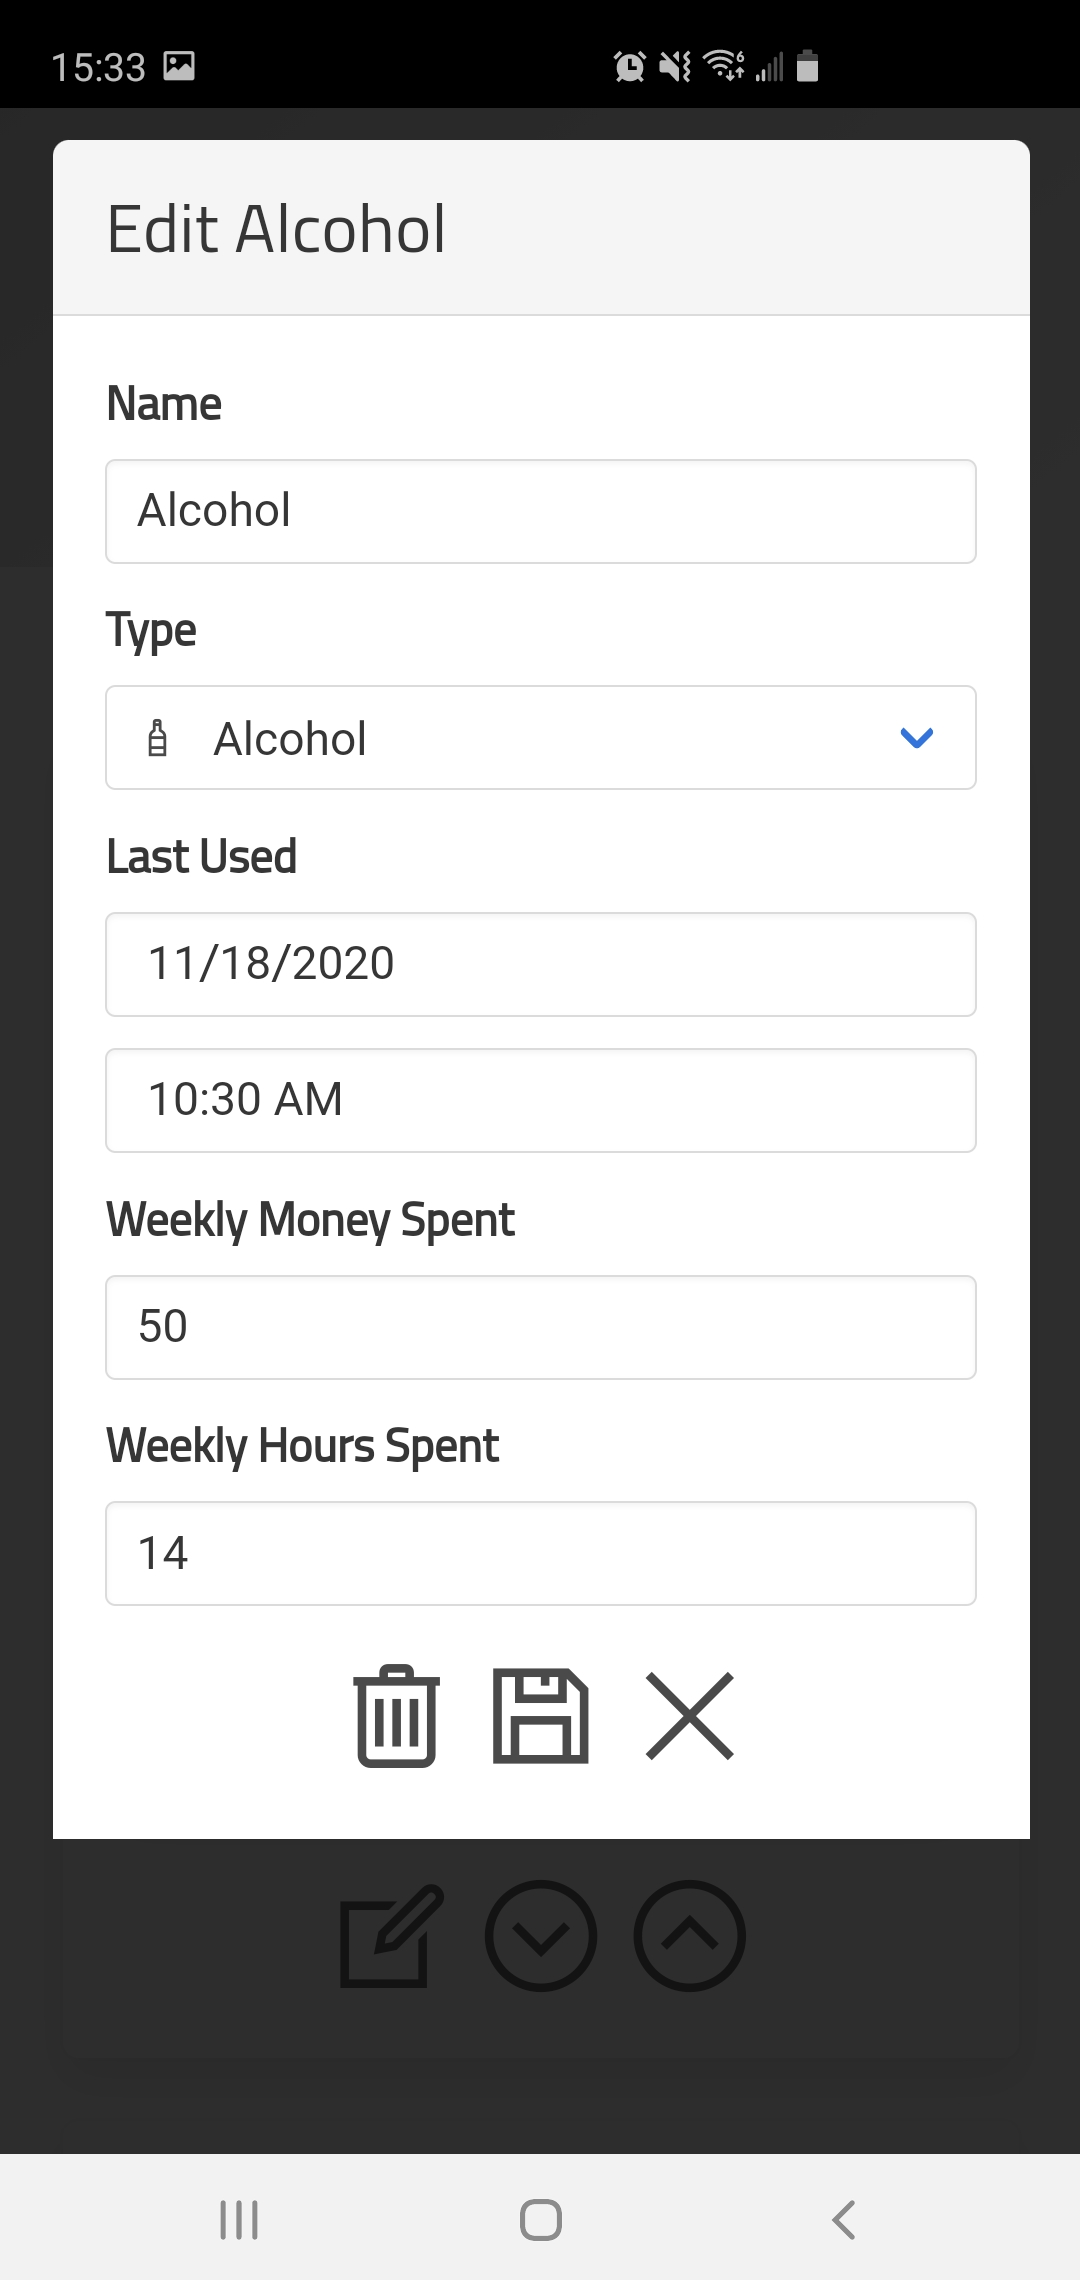
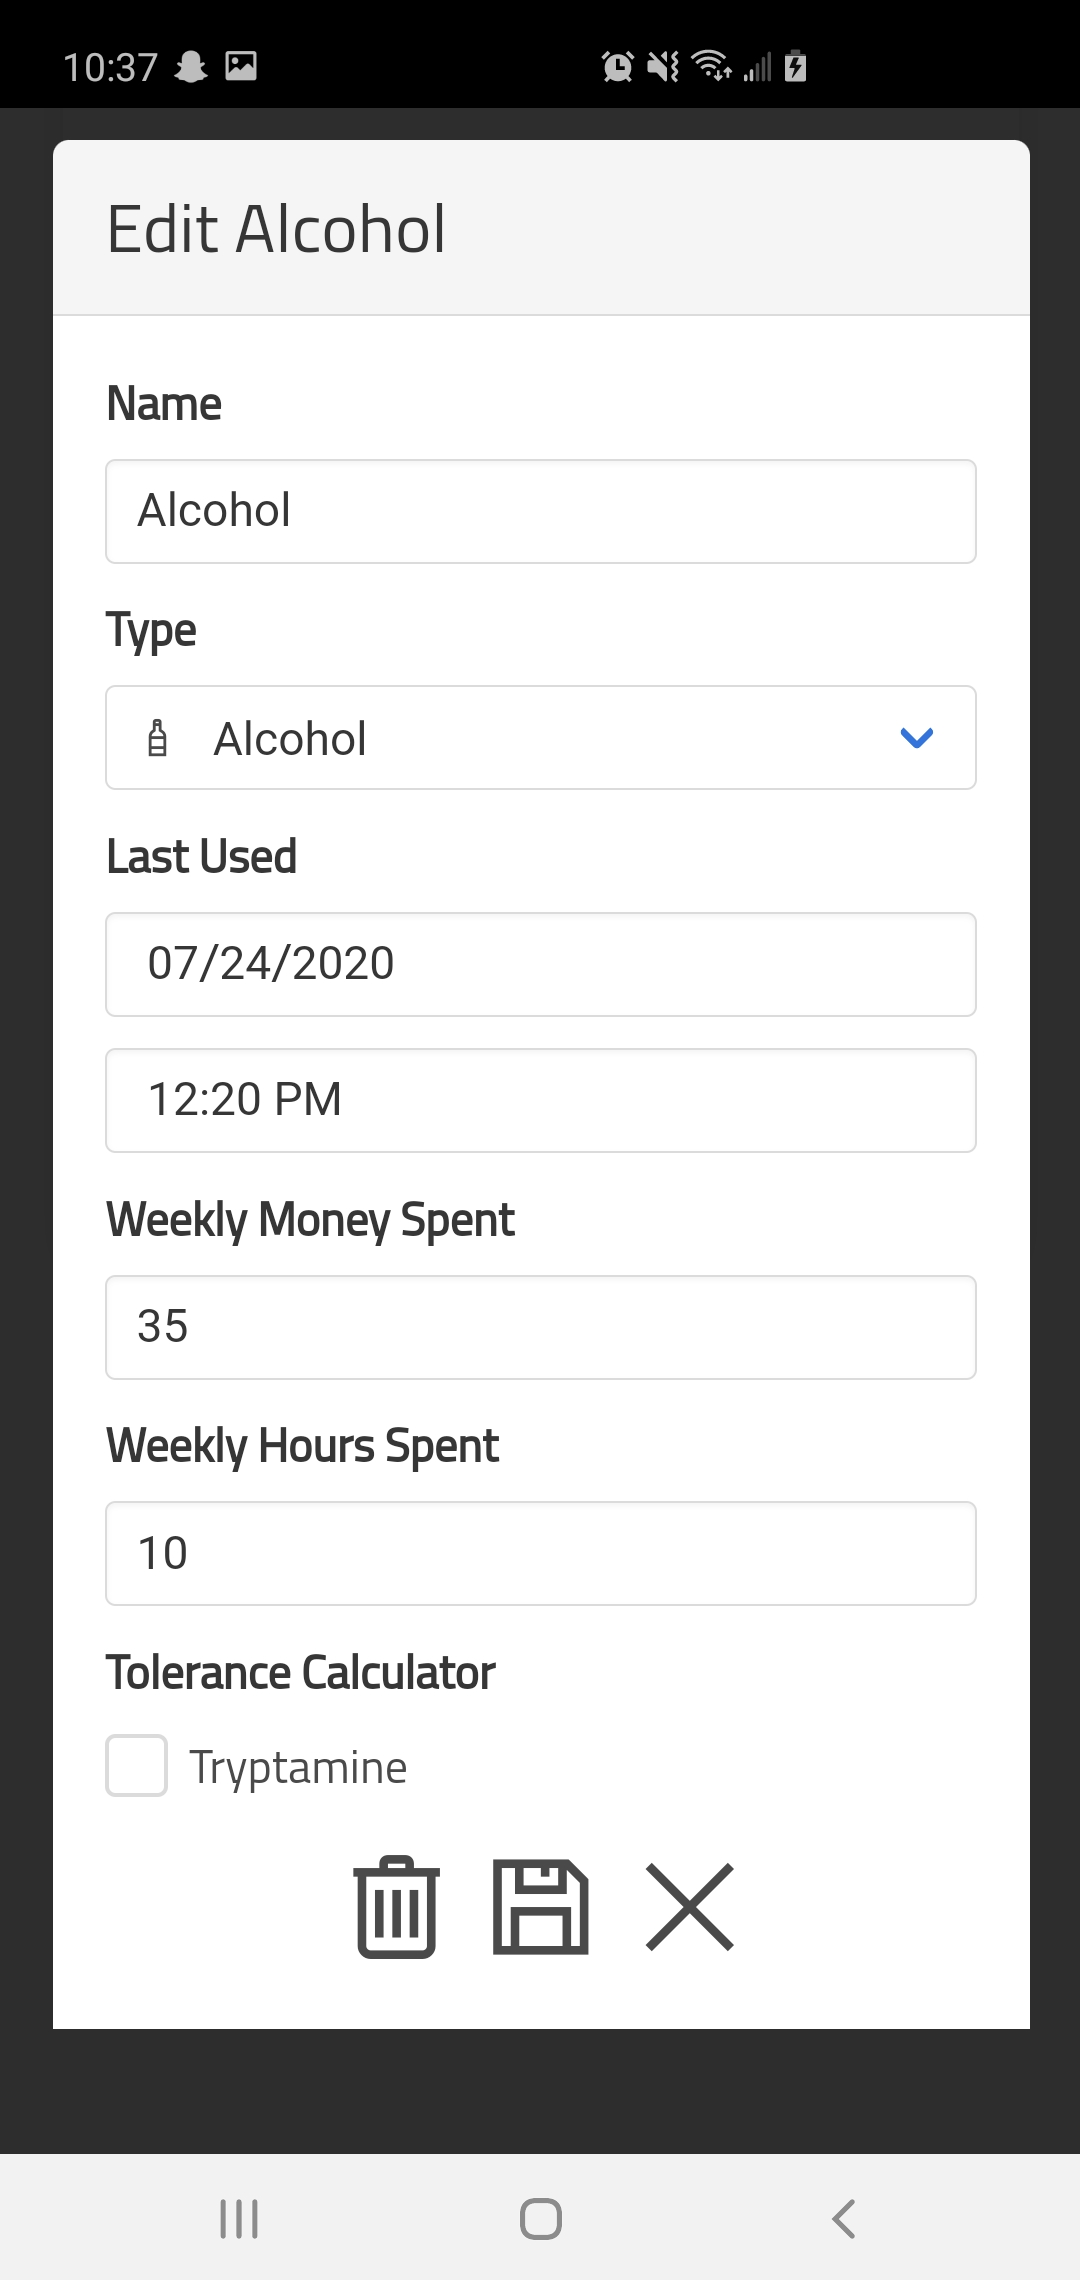
tryp docs

diff --git a/app/src/main/assets/index.html b/app/src/main/assets/index.html
@@ -138,7 +138,7 @@
 
 					<div class="field">
 						<label class="label">Tolerance Calculator</label>
-						<label class="checkbox">
+						<label class="checkbox" style="-webkit-tap-highlight-color:  rgba(255, 255, 255, 0);">
 							<input class="is-checkradio is-dark" id="tracker-editor-edit-is-tryptamine" type="checkbox">
 							<label for="tracker-editor-edit-is-tryptamine" style="position: static;">Tryptamine</label>
 						</label>

diff --git a/README.md b/README.md
@@ -1,10 +1,20 @@
-# SobrietyTracker
+# Sobriety Tracker
+
 An Android app to help count the time sober from any addiction.
 
 # About
+
 This app was written as an Android WebView app, and is essentially
 a website within an Android container. The code is self-documenting.
 
-Main Screen | Editor | PIN Protection
-:---:|:---:|:---:
-| ![Main screen](docs/sc-main.jpg) | ![Editor](docs/sc-editor.jpg) | ![PIN Protection](docs/sc-pin.jpg)
+Main Screen | Editor | Types | PIN Protection
+:---:|:---:|:---:|:---:
+| ![Main screen](docs/sc-main.jpg) | ![Editor](docs/sc-editor.jpg) | ![Types](docs/sc-types.jpg) | ![PIN Protection](docs/sc-pin.jpg)
+
+# Tryptamine Tolerance
+
+Sobriety Tracker has a built-in Tryptamine (LSD, Mushroom, etc...)
+tolerance calculator. To enable it, simply check the "Tryptamine" box
+in the addiction editor. Your tolerance will then automatically be displayed.
+![Tryptamine tolerance example](docs/sc-tryptamine.jpg)
+To make use of this, simply multiply the tolerance percent by the new desired dose, to get the actual dose required to feel the desired effects.
